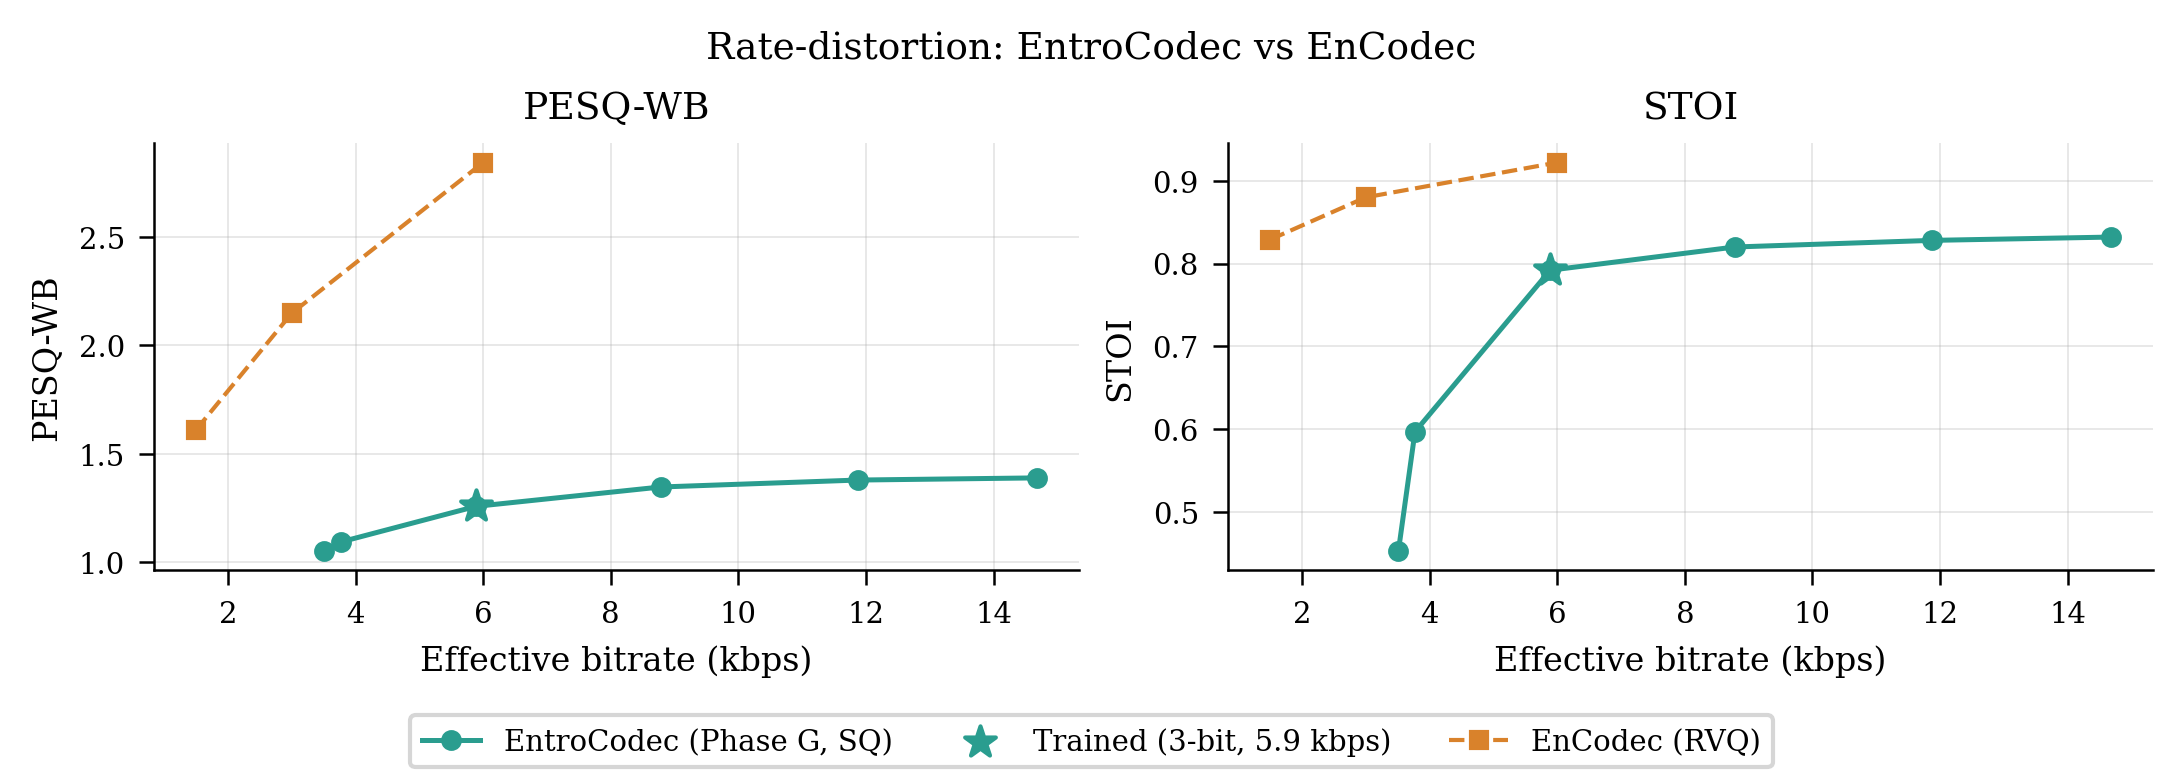
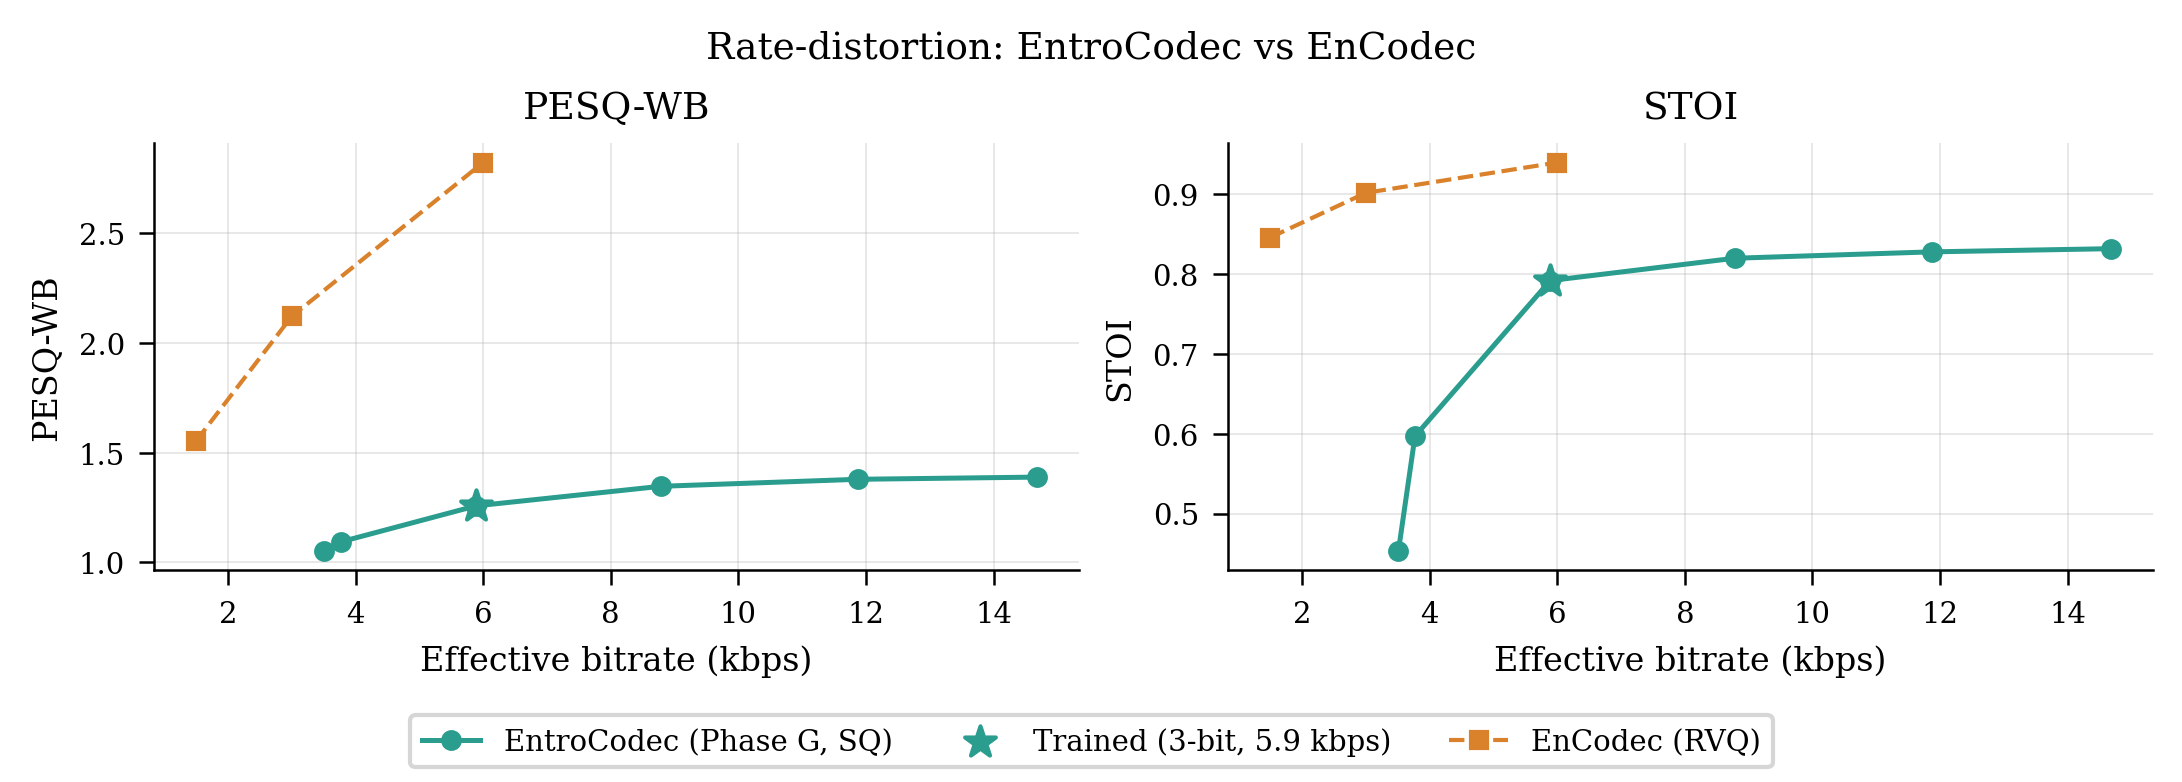
feat: update EnCodec reference points with locally measured values and add eval_baselines script for consistency

diff --git a/scripts/eval_baselines.py b/scripts/eval_baselines.py
@@ -1,0 +1,229 @@
+#!/usr/bin/env python3
+"""
+Reference-codec baselines: AAC and EnCodec, measured locally.
+
+Why this exists: the AAC and EnCodec numbers previously quoted in the README and
+in scripts/13_rd_sweep.py were hardcoded constants with no stored evaluation run
+behind them, and the surviving notes disagreed on whether they had been measured
+locally or taken from published figures. This script produces them on the same
+speaker set, clip length and metric code as eval_confidence_intervals.py, so the
+reference rows and the EntroCodec rows are a matched comparison.
+
+AAC encoder note: FFmpeg's native `aac` encoder (AAC-LC), via PyAV. libfdk_aac is
+not present in any pip or conda binary distribution because its licence is
+GPL-incompatible, so it is not available here without building FFmpeg from source.
+The encoder actually used is recorded in the report header.
+
+Output: comparisons/YYYY-MM-DD_baselines/
+  report.txt   — summary with 95% bootstrap CIs
+  metrics.csv  — per-speaker raw numbers
+"""
+
+import argparse
+import sys
+from datetime import datetime
+from pathlib import Path
+
+import numpy as np
+import soundfile as sf
+import torch
+import torchaudio
+
+PROJECT_ROOT = Path(__file__).resolve().parents[1]
+sys.path.insert(0, str(PROJECT_ROOT))
+sys.path.insert(0, str(PROJECT_ROOT / 'scripts'))
+
+import av
+
+from src.paths import get_dataset_paths
+from src.codec_utils import compute_metrics
+
+# Reuse the AAC path already used for every previous comparison in this project
+# rather than reimplementing it, so a changed number means a changed measurement
+# and not a changed implementation. That module guards its own main().
+aac_encode_decode = __import__('03b_phaseC_eval').aac_encode_decode
+
+from encodec import EncodecModel
+
+SR = 16000
+ENCODEC_SR = 24000
+
+
+def collect_speakers(test_clean_path: Path, n: int, clip_sec: int, sr: int):
+    """Identical selection to eval_confidence_intervals.py: first `n` speakers by
+    numeric ID, one utterance each. Deliberately not 'first n by directory
+    traversal' — that silently changes which speakers are picked whenever the
+    dataset changes, which is what issue #43 was."""
+    by_speaker = {}
+    for f in sorted(test_clean_path.rglob('*.flac')):
+        spk = f.parts[-3]
+        if spk not in by_speaker:
+            by_speaker[spk] = f
+
+    def spk_key(s):
+        try:
+            return (0, int(s))
+        except ValueError:
+            return (1, s)
+
+    speakers = []
+    for spk in sorted(by_speaker, key=spk_key)[:n]:
+        audio, file_sr = sf.read(by_speaker[spk])
+        if audio.ndim > 1:
+            audio = audio.mean(axis=1)
+        if file_sr != sr:
+            n_samples = int(len(audio) * sr / file_sr)
+            audio = np.interp(np.linspace(0, len(audio), n_samples),
+                              np.arange(len(audio)), audio)
+        audio = np.clip(audio[:clip_sec * sr], -1.0, 1.0).astype(np.float32)
+        speakers.append((spk, audio))
+    return speakers
+
+
+def bootstrap_ci(values, n_boot=10_000, ci=95, rng=None):
+    """Bootstrap CI on the mean. Matches eval_confidence_intervals.py."""
+    if rng is None:
+        rng = np.random.default_rng(42)
+    vals = np.array([v for v in values if v is not None], dtype=float)
+    if len(vals) == 0:
+        return float('nan'), float('nan'), float('nan')
+    boots = rng.choice(vals, size=(n_boot, len(vals)), replace=True).mean(axis=1)
+    alpha = (100.0 - ci) / 2.0
+    lo, hi = np.percentile(boots, [alpha, 100.0 - alpha])
+    return float(vals.mean()), float(lo), float(hi)
+
+
+class EncodecRunner:
+    """Loads each bandwidth's model once. The helper in 03b_phaseC_eval.py rebuilds
+    the model on every call, which is fine for 5 clips and wasteful for 40."""
+
+    def __init__(self, device):
+        self.device = device
+        self._cache = {}
+
+    def _model(self, bandwidth_kbps):
+        if bandwidth_kbps not in self._cache:
+            m = EncodecModel.encodec_model_24khz()
+            m.set_target_bandwidth(bandwidth_kbps)
+            self._cache[bandwidth_kbps] = m.to(self.device).eval()
+        return self._cache[bandwidth_kbps]
+
+    def __call__(self, audio_np, bandwidth_kbps):
+        model = self._model(bandwidth_kbps)
+        audio_t = torch.FloatTensor(audio_np).unsqueeze(0)
+        audio_24k = torchaudio.functional.resample(audio_t, SR, ENCODEC_SR)
+        audio_24k = audio_24k.unsqueeze(0).to(self.device)
+
+        with torch.no_grad():
+            frames = model.encode(audio_24k)
+            decoded_24k = model.decode(frames)
+
+        total_codes = sum(codes.numel() for codes, _ in frames)
+        bits_per_code = float(np.log2(model.quantizer.bins))
+        duration = len(audio_np) / SR
+        actual_kbps = (total_codes * bits_per_code) / duration / 1000
+
+        decoded = torchaudio.functional.resample(
+            decoded_24k.squeeze(0).cpu(), ENCODEC_SR, SR).squeeze(0).numpy()
+        if len(decoded) >= len(audio_np):
+            decoded = decoded[:len(audio_np)]
+        else:
+            decoded = np.pad(decoded, (0, len(audio_np) - len(decoded)))
+        return decoded.astype(np.float32), actual_kbps
+
+
+def aac_encoder_description() -> str:
+    codec = av.codec.Codec('aac', 'w')
+    libavcodec = '.'.join(str(x) for x in av.library_versions.get('libavcodec', ()))
+    return (f"FFmpeg native '{codec.name}' ({codec.long_name}), "
+            f"libavcodec {libavcodec}, PyAV {av.__version__}")
+
+
+def main():
+    ap = argparse.ArgumentParser()
+    ap.add_argument('--n-speakers', type=int, default=40)
+    ap.add_argument('--clip-sec', type=int, default=5)
+    ap.add_argument('--aac-kbps', type=int, default=10,
+                    help='requested AAC bitrate; AAC-LC floors well above this at '
+                         '16 kHz mono, and the achieved rate is what gets reported')
+    ap.add_argument('--encodec-bw', type=float, nargs='+', default=[1.5, 3.0, 6.0])
+    ap.add_argument('--device', default='cuda' if torch.cuda.is_available() else 'cpu')
+    args = ap.parse_args()
+
+    out_dir = PROJECT_ROOT / 'comparisons' / f"{datetime.now():%Y-%m-%d}_baselines"
+    out_dir.mkdir(parents=True, exist_ok=True)
+
+    paths = get_dataset_paths()
+    speakers = collect_speakers(paths['test_clean'], args.n_speakers,
+                                args.clip_sec, SR)
+
+    print(f"\n{'='*72}\nREFERENCE CODEC BASELINES\n{'='*72}")
+    print(f"speakers : {len(speakers)}  |  clip: {args.clip_sec}s  |  device: {args.device}")
+    print(f"AAC      : {aac_encoder_description()}\n")
+
+    encodec = EncodecRunner(args.device)
+    systems = [f'AAC@{args.aac_kbps}kbps'] + [f'EnCodec@{bw}kbps' for bw in args.encodec_bw]
+    rows = []
+
+    for i, (spk, audio) in enumerate(speakers, 1):
+        row = {'speaker': spk}
+
+        dec, kbps = aac_encode_decode(audio, SR, target_kbps=args.aac_kbps)
+        row[f'AAC@{args.aac_kbps}kbps'] = (kbps, *compute_metrics(audio, dec, SR))
+
+        for bw in args.encodec_bw:
+            dec, kbps = encodec(audio, bw)
+            row[f'EnCodec@{bw}kbps'] = (kbps, *compute_metrics(audio, dec, SR))
+
+        rows.append(row)
+        shown = '  '.join(
+            f"{name}={row[name][1]:.3f}" if row[name][1] is not None else f"{name}=n/a"
+            for name in systems)
+        print(f"[{i:>2}/{len(speakers)}] spk {spk:<6} {shown}")
+
+    SEP, sep = '=' * 72, '-' * 72
+    lines = [
+        '', SEP, 'REFERENCE CODEC BASELINES — AAC and EnCodec',
+        f"Generated : {datetime.now():%Y-%m-%d %H:%M}",
+        f"Speakers  : {len(speakers)}  (first {args.n_speakers} numeric IDs from test-clean)",
+        f"Clip      : {args.clip_sec}s  |  SR: {SR} Hz mono  |  device: {args.device}",
+        "Bootstrap : 10,000 iterations  |  CI: 95%  |  seed: 42",
+        f"AAC       : {aac_encoder_description()}",
+        "EnCodec   : encodec_model_24khz, 16k->24k resample in, 24k->16k out",
+        SEP, '',
+        f"{'System':<20} {'kbps':>7}  {'PESQ-WB':>9} {'95% CI':>18}"
+        f"  {'STOI':>7} {'95% CI':>18}",
+        sep,
+    ]
+    for name in systems:
+        kb = [r[name][0] for r in rows]
+        pm, plo, phi = bootstrap_ci([r[name][1] for r in rows])
+        sm, slo, shi = bootstrap_ci([r[name][2] for r in rows])
+        lines.append(
+            f"  {name:<18} {np.mean(kb):>6.2f}k  {pm:>9.3f} "
+            f"{f'[{plo:.3f}, {phi:.3f}]':>18}  {sm:>7.3f} "
+            f"{f'[{slo:.3f}, {shi:.3f}]':>18}")
+    lines += [
+        sep, '',
+        'NOTE: AAC-LC at 16 kHz mono floors well above the requested bitrate; cite the',
+        '      achieved rate above, not the request. libfdk_aac (which supports HE-AAC',
+        '      and would reach lower rates) is not distributable in pip/conda builds.',
+        SEP, '',
+    ]
+
+    (out_dir / 'report.txt').write_text('\n'.join(lines), encoding='utf-8')
+    with open(out_dir / 'metrics.csv', 'w', encoding='utf-8') as f:
+        f.write('system,speaker,kbps,pesq_wb,stoi\n')
+        for r in rows:
+            for name in systems:
+                kb, p, s = r[name]
+                f.write(f"{name},{r['speaker']},{kb},"
+                        f"{'' if p is None else p},{'' if s is None else s}\n")
+
+    print('\n'.join(lines))
+    print(f"report:      {out_dir / 'report.txt'}")
+    print(f"metrics csv: {out_dir / 'metrics.csv'}")
+
+
+if __name__ == '__main__':
+    main()

diff --git a/scripts/figures/data_loader.py b/scripts/figures/data_loader.py
@@ -53,6 +53,16 @@ def load_all(project_root: Path) -> dict:
     # canonical 40-speaker basis rather than the earlier 5-speaker sweep.
     _try(data, 'rd',           _load_rd_sweep,        comp / '2026-08-10_paper_numbers' / 'report.txt')
 
+    # Locally measured reference codecs. The EnCodec rows stored inside the older
+    # sweep reports came from hardcoded constants, so prefer the measured run and
+    # overwrite them where it exists.
+    baselines_dir = _latest(comp, '*_baselines')
+    if baselines_dir:
+        _try(data, 'baselines', _load_baselines, baselines_dir / 'report.txt')
+        measured = data.get('baselines', {}).get('encodec')
+        if measured and 'rd' in data:
+            data['rd']['encodec'] = measured
+
     # One-off historical snapshots, evaluated on the fixed canonical 5-speaker
     # set (unaffected by dataset completeness) -- pinned dates are fine here.
     _try(data, 'multi_coder',  _load_multi_coder,     comp / '2026-07-10_multi_coder' / 'report.txt')
@@ -223,6 +233,36 @@ def _load_rd_sweep(path: Path):
                     pesq=float(m.group(3)), stoi=float(m.group(4)),
                 ))
     return dict(ours=ours, encodec=encodec)
+
+
+# ---- Reference codec baselines (eval_baselines.py) ------------------------
+
+_RE_BASELINE = re.compile(
+    r'^\s+(\S+?)@([\d.]+)kbps\s+([\d.]+)k\s+([\d.]+)\s+\[[\d.]+, [\d.]+\]'
+    r'\s+([\d.]+)\s+\[[\d.]+, [\d.]+\]'
+)
+
+
+def _load_baselines(path: Path):
+    """Parse the AAC / EnCodec baseline report into the same row shape the R-D
+    figure already expects for its reference overlay."""
+    encodec, aac = [], []
+    for line in path.read_text(encoding='utf-8').splitlines():
+        m = _RE_BASELINE.match(line)
+        if not m:
+            continue
+        system, target, achieved, pesq, stoi = m.groups()
+        row = dict(kbps=float(achieved), eff_kbps=float(achieved),
+                   pesq=float(pesq), stoi=float(stoi))
+        if system.lower().startswith('encodec'):
+            # Label by the requested bandwidth: EnCodec hits its target exactly,
+            # and that is how its operating points are named everywhere else.
+            row['kbps'] = float(target)
+            row['eff_kbps'] = float(target)
+            encodec.append(row)
+        else:
+            aac.append(row)
+    return dict(encodec=encodec, aac=aac)
 
 
 # ---- Checkpoint-inference snapshots (no surviving generator script) -------

diff --git a/scripts/13_rd_sweep.py b/scripts/13_rd_sweep.py
@@ -50,12 +50,15 @@ N_SPEAKERS = 5
 # Bit depths to sweep
 BIT_DEPTHS = [1, 2, 3, 4, 5, 6]   # → num_levels = 2^b
 
-# EnCodec reference points (real PESQ/STOI on LibriSpeech test-clean,
-# 5 speakers × 5s, from offline evaluation on macOS with real pesq/pystoi)
+# EnCodec reference points. Measured locally by scripts/eval_baselines.py on the
+# same 40-speaker set, clip length and metric code as the EntroCodec numbers --
+# see comparisons/2026-09-09_baselines/report.txt. These were previously carried
+# as constants with no stored run behind them and contradictory notes on their
+# origin; do not edit them by hand, re-run eval_baselines.py instead.
 ENCODEC_REF = [
-    {'label': 'EnCodec 1.5 kbps', 'kbps': 1.5,  'pesq': 1.611, 'stoi': 0.829},
-    {'label': 'EnCodec 3.0 kbps', 'kbps': 3.0,  'pesq': 2.148, 'stoi': 0.880},
-    {'label': 'EnCodec 6.0 kbps', 'kbps': 6.0,  'pesq': 2.842, 'stoi': 0.922},
+    {'label': 'EnCodec 1.5 kbps', 'kbps': 1.5,  'pesq': 1.554, 'stoi': 0.846},
+    {'label': 'EnCodec 3.0 kbps', 'kbps': 3.0,  'pesq': 2.122, 'stoi': 0.902},
+    {'label': 'EnCodec 6.0 kbps', 'kbps': 6.0,  'pesq': 2.823, 'stoi': 0.940},
 ]
 
 

diff --git a/scripts/eval_paper_numbers.py b/scripts/eval_paper_numbers.py
@@ -66,10 +66,15 @@ PHASE_A_CKPT = PROJECT_ROOT / 'checkpoints_active/temporal_phaseA/best.pt'
 PHASE_B_CKPT = PROJECT_ROOT / 'checkpoints_active/temporal_phaseB/best.pt'
 PHASE_G_CKPT = PROJECT_ROOT / 'checkpoints_active/temporal_phaseG/best.pt'
 
+# EnCodec reference points. Measured locally by scripts/eval_baselines.py on the
+# same 40-speaker set, clip length and metric code as the EntroCodec numbers --
+# see comparisons/2026-09-09_baselines/report.txt. These were previously carried
+# as constants with no stored run behind them and contradictory notes on their
+# origin; do not edit them by hand, re-run eval_baselines.py instead.
 ENCODEC_REF = [
-    {'label': 'EnCodec 1.5 kbps', 'kbps': 1.5,  'pesq': 1.611, 'stoi': 0.829},
-    {'label': 'EnCodec 3.0 kbps', 'kbps': 3.0,  'pesq': 2.148, 'stoi': 0.880},
-    {'label': 'EnCodec 6.0 kbps', 'kbps': 6.0,  'pesq': 2.842, 'stoi': 0.922},
+    {'label': 'EnCodec 1.5 kbps', 'kbps': 1.5,  'pesq': 1.554, 'stoi': 0.846},
+    {'label': 'EnCodec 3.0 kbps', 'kbps': 3.0,  'pesq': 2.122, 'stoi': 0.902},
+    {'label': 'EnCodec 6.0 kbps', 'kbps': 6.0,  'pesq': 2.823, 'stoi': 0.940},
 ]
 
 

diff --git a/README.md b/README.md
@@ -43,9 +43,21 @@ Every phase measures two things after training: perceptual quality (PESQ-WB, STO
 | F | Combined triple spectral loss | 1.247 | 0.790 | 5.89 kbps | 1.521 bits |
 | G | Fine-polish (best model) | 1.258 | 0.792 | 5.89 kbps | 1.520 bits |
 
-Quality and bitrate are means over 40 LibriSpeech `test-clean` speakers with bootstrapped 95% confidence intervals (`comparisons/2026-08-13_confidence_intervals/report.txt`). Latent entropy is measured on the canonical 5-speaker set (`comparisons/2026-08-10_compression_analysis/report.txt`), which is the basis used for every entropy figure in this repository.
+Quality and bitrate are means over 40 LibriSpeech `test-clean` speakers with bootstrapped 95% confidence intervals (`comparisons/2026-08-13_confidence_intervals/report.txt`). Latent entropy is measured on the canonical 5-speaker set (`comparisons/2026-09-09_compression_analysis/report.txt`), which is the basis used for every entropy figure in this repository.
 
 Phase D-VAE is the deliberate exception, and it's the piece that turns this from a correlation into evidence: a KL-divergence term directly penalizes the latent's entropy, with no change to the reconstruction objective. Entropy drops sharply (1.090 vs. ~1.5 bits elsewhere) — and quality drops with it, by 0.045 PESQ-WB and 0.032 STOI against Phase D, both p<0.0001 on a paired Wilcoxon test at n=40. This is the one experiment in the curriculum where entropy was pushed in the *opposite* direction from every other phase, on purpose, and quality followed it down anyway.
+
+A second mechanism reproduces it with no VAE involved. Phase D-Entropy replaces the KL term with a soft penalty applied directly to the latent's own symbol distribution, and pushes entropy slightly further down than D-VAE manages:
+
+| Phase | Mechanism | Mean latent entropy | PESQ-WB | STOI |
+|---|---|---|---|---|
+| D | none | 1.455 bits | 1.219 | 0.761 |
+| D-VAE | β·KL | 1.090 bits | 1.174 | 0.729 |
+| **D-Entropy** | **soft entropy penalty** | **1.078 bits** | **1.148** | **0.704** |
+
+Both are significant against Phase D at p<0.0001 on both metrics. The two mechanisms share no machinery, and the one that suppresses entropy further is also the one that costs more quality — a dose-response relationship rather than a single anomalous run.
+
+![Entropy penalty ablation: entropy, quality and bitrate for D, D-VAE and D-Entropy](plots/fig_11_entropy_ablation.png)
 
 ![Quality metrics across the full 8-phase curriculum](plots/fig_02_phase_progression.png)
 
@@ -86,33 +98,30 @@ Causal beats non-causal under both protocols (paired Wilcoxon, n=40, p<0.0001 on
 
 ![Causal vs non-causal, per-speaker PESQ-WB and STOI, fair depth-matched comparison](plots/fig_16_causality.png)
 
-Almost every speaker falls above the diagonal — causal wins consistently, not just on average. The effect is real but small (ΔPESQ ≈ 0.07–0.10) next to the roughly 1.6-point gap to EnCodec at comparable bitrate below (see the provenance note under [Results](#results) — the exact size of that gap is pending re-measurement, but it is more than an order of magnitude larger than the causality effect either way): causality is a minor contributor to that gap, not the explanation for it — the paper's argument remains that most of the gap comes from EnCodec's adversarial training producing a fundamentally different latent-shaping signal than any reconstruction-based loss used here can supply.
+Almost every speaker falls above the diagonal — causal wins consistently, not just on average. The effect is real but small (ΔPESQ ≈ 0.07–0.10) next to the 1.57-point gap to EnCodec at the closest matched bitrate below: causality is a minor contributor to that gap, not the explanation for it — the paper's argument remains that most of the gap comes from EnCodec's adversarial training producing a fundamentally different latent-shaping signal than any reconstruction-based loss used here can supply.
 
 ---
 
 ## Results
 
-EntroCodec rows are means over 40 LibriSpeech `test-clean` speakers, 5-second clips, 16 kHz mono, with bootstrapped 95% confidence intervals.
+Every row is a mean over the same 40 LibriSpeech `test-clean` speakers, 5-second clips, 16 kHz mono, with bootstrapped 95% confidence intervals. Reference codecs were measured locally with the same metric code as EntroCodec, so the comparison is matched on test set, clip length and metric implementation.
 
 | Codec | Bitrate | PESQ-WB | STOI |
 |---|---|---|---|
+| EnCodec 1.5 kbps (Meta) | 1.50 kbps | 1.554 [1.499, 1.608] | 0.846 [0.837, 0.854] |
+| EnCodec 3.0 kbps (Meta) | 3.00 kbps | 2.122 [2.045, 2.197] | 0.902 [0.894, 0.908] |
 | EntroCodec — Phase C | 5.58 kbps | 1.199 [1.176, 1.224] | 0.759 [0.744, 0.773] |
 | **EntroCodec — Phase G (default)** | **5.89 kbps** | **1.258 [1.229, 1.289]** | **0.792 [0.778, 0.805]** |
+| EnCodec 6.0 kbps (Meta) | 6.00 kbps | 2.823 [2.734, 2.913] | 0.940 [0.933, 0.945] |
+| AAC-LC | 15.83 kbps | 1.670 [1.593, 1.747] | 0.860 [0.855, 0.864] |
 
-Reference codecs, carried over from the earlier 5-speaker comparison runs:
+AAC is the classical anchor rather than a like-for-like competitor: AAC-LC cannot reach EntroCodec's operating point at all. Asked for 10 kbps it floors at 15.83 kbps on 16 kHz mono, which is 2.7× the bitrate Phase G runs at. EnCodec is the meaningful comparison, and the 6.0 kbps tier is the closest bitrate match to Phase G.
 
-| Codec | Bitrate | PESQ-WB | STOI |
-|---|---|---|---|
-| AAC | ~16 kbps | 1.641 | 0.855 |
-| EnCodec 1.5 kbps (Meta) | 1.5 kbps | 1.611 | 0.829 |
-| EnCodec 3.0 kbps (Meta) | 3.0 kbps | 2.148 | 0.880 |
-| EnCodec 6.0 kbps (Meta) | 6.0 kbps | 2.842 | 0.922 |
+Measured with `scripts/eval_baselines.py`. AAC uses FFmpeg's native AAC-LC encoder through PyAV; EnCodec uses the released 24 kHz model, with the 16 kHz input resampled up and the output resampled back. The higher-quality `libfdk_aac` encoder, which supports HE-AAC and would reach lower bitrates, is not distributable in pip or conda builds and so was not available.
 
-> **Provenance note.** The reference rows are on the 5-speaker set, not the 40-speaker set used for the EntroCodec rows, so the two tables are not matched-set comparisons. These reference values are also carried in this repository only as fixed constants rather than as the output of a stored evaluation run, and the surviving documentation disagrees on whether they were measured locally or taken from published figures. They are being re-established from a local evaluation before any of them go into the write-up, and the AAC PESQ-WB value in particular should not be cited until then.
+**On the gap to EnCodec:** at the closest matched bitrate, EnCodec at 6.0 kbps scores 2.823 against Phase G's 1.258, a gap of 1.57 PESQ-WB. EnCodec uses residual vector quantization and adversarial training, neither replicated here. Section 3 shows causality is only a minor contributor to that gap, worth ΔPESQ ≈ 0.07–0.10 from removing the real-time constraint, more than an order of magnitude smaller. The contribution is the controlled evidence for *why* scalar-quantization codecs hit their quality ceiling, not closing the gap to systems with structurally different architectures.
 
-**On the gap to EnCodec:** EnCodec uses residual vector quantization and adversarial training — neither replicated here. Section 3 shows causality is only a minor contributor to the gap (ΔPESQ ≈ 0.07–0.10 from removing the real-time constraint, against a gap to EnCodec at comparable bitrate that is more than an order of magnitude larger). The contribution is the controlled evidence for *why* scalar-quantization codecs hit their quality ceiling, not closing the gap to systems with structurally different architectures.
-
-To reproduce the EntroCodec rows: `python scripts/eval_confidence_intervals.py`
+To reproduce: `python scripts/eval_confidence_intervals.py` for the EntroCodec rows, `python scripts/eval_baselines.py` for the reference rows.
 
 > **Note on PESQ:** the `pesq` package compiles a C extension at install time. See [Dependencies](#dependencies) for platform-specific build tool requirements. Without it, PESQ shows `n/a` and STOI is reported instead.
 
